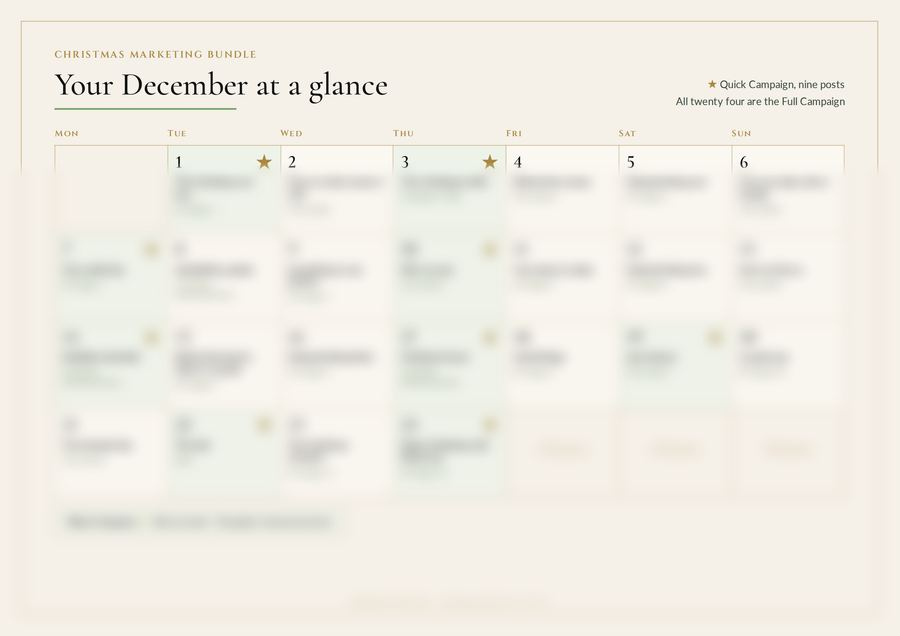
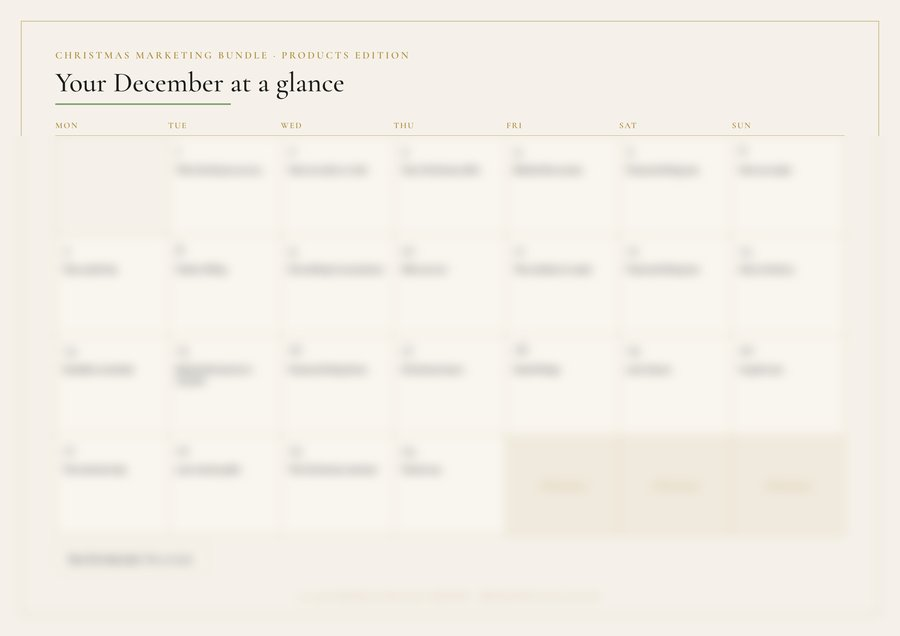
£79 price and new Offers page

diff --git a/christmas-marketing-bundle.html b/christmas-marketing-bundle.html
@@ -1183,9 +1183,9 @@ main.fern .advent-s h2{text-align:center;margin-bottom:6px}
     <div>
       <p class="label">Christmas Marketing Bundle</p>
       <h1>Your December posts, planned for&nbsp;you.</h1>
-      <p class="lede">A month of Christmas posts for your small business. The plan, the captions and the image prompts are ready for you to make your own, and from 1&nbsp;December an email arrives each morning to tell you what to post that day.</p>
+      <p class="lede">A month of Christmas posts for your small business. Twenty five posts are designed and written for you in Canva, ready to make your own, and from 1&nbsp;December an email arrives each morning to tell you what to post that day.</p>
       <div class="buy">
-      <p class="price">&pound;99<span>including VAT</span></p>
+      <p class="price">&pound;79<span>including VAT</span></p>
       <a class="btn" href="https://buy.stripe.com/5kQ3cx2S85Btbz48cp7Zu00">Buy the bundle</a>
       <p class="when">On sale until 30 November. Posting starts on 1 December.</p>
       <p class="when terms-line">For UK buyers. <a href="terms-of-sale.html">Terms of Sale</a> apply.</p>
@@ -1226,8 +1226,8 @@ main.fern .advent-s h2{text-align:center;margin-bottom:6px}
   <div class="narrow">
     <h2>How it works</h2>
     <ol class="howto">
-      <li><div><h3>In November, fill in your brand sheet</h3><p>A few lines about your business, your colours and what you are promoting this Christmas. Everything else follows from it.</p></div></li>
-      <li><div><h3>Make it yours</h3><p>Make your images with the prompts, fill in the brackets in the captions, and finish your Canva templates. Your own copy of the bundle is a document you can type straight into.</p></div></li>
+      <li><div><h3>In November, open your 25 posts</h3><p>Open the Canva template and click Use template. It becomes your own copy to change, and a short guide walks you through every step.</p></div></li>
+      <li><div><h3>Make them yours</h3><p>Change the colours, swap in your own photos and fill in the brackets in each caption. Then print your posters and counter card.</p></div></li>
       <li><div><h3>From 1 December, one email each morning</h3><p>A reminder of which picture and which caption to use that day. You post your own picture and your filled-in caption, or schedule them ahead.</p></div></li>
     </ol>
   </div>
@@ -1238,27 +1238,19 @@ main.fern .advent-s h2{text-align:center;margin-bottom:6px}
     <h2>What is inside</h2>
     <div class="inside">
       <div class="inside-list"><ul>
-        <li>A Campaign Check and brand sheet, so everything sounds like you</li>
-        <li>Twelve image prompts that keep your pictures looking like one set</li>
-        <li>Twenty five captions, written for you to fill in</li>
-        <li>A posting calendar from 1 to 24 December, and one for January</li>
-        <li>Briefs for the photos only you can take</li>
-        <li>Twenty five ready-to-edit Canva posts, one for every day, with that day's caption in each page's notes</li>
-        <li>Five more Canva templates: an announcement, an offer, a printable A6 offer for the counter, a reel cover, and A4 posters for your window or counter</li>
-        <li>A simple reel recipe</li>
-        <li>Three emails for your own customers</li>
-        <li>A reply pack of eight answers to the questions you are asked most</li>
-        <li>A guide to scheduling your posts</li>
-        <li>A guide to updating your Christmas hours on Google</li>
+        <li>Twenty five ready-to-edit Canva posts, one for every day from 1 to 24 December and one for January, each with its caption in the page notes</li>
+        <li>Five A4 posters for your window or counter, each with a space for a QR code</li>
+        <li>A printable A6 card for your gift vouchers or Christmas favourites</li>
+        <li>A short step-by-step guide, with Canva quick help and ten Christmas colour palettes</li>
+        <li>Optional prompts for making your own Christmas pictures with ChatGPT or Gemini</li>
         <li>A morning email every day from 1 to 24 December, and one in January</li>
         <li>A campaign planner and December calendar, to print and tick off by hand</li>
-        <li>Your own copy of the bundle to type into, as a Google Doc or a Word file, plus PDFs to read or print</li>
+        <li>Your own copy of the guide to type into, as a Google Doc or a Word file, plus PDFs to read or print</li>
         <li>Two editions, both included: a Products edition that follows a florist, and a Services edition that follows a grooming parlour. Use whichever fits your business</li>
-        <li>A short guide to using AI images sensibly and safely</li>
       </ul>
       <blockquote class="pull"><p>“A little less time planning your marketing. A little more time enjoying Christmas.”</p><cite>Llinos, Medraf Digital</cite></blockquote></div>
       <div class="prints">
-        <figure class="tilt-a"><img src="images/christmas/calendar.jpg" alt="The printable December calendar, showing all twenty four posts with the nine Quick Campaign posts starred"><figcaption>Your December at a glance, ready to print.</figcaption></figure>
+        <figure class="tilt-a"><img src="images/christmas/calendar.jpg" alt="The printable December calendar, showing the post for every day from 1 to 24 December"><figcaption>Your December at a glance, ready to print.</figcaption></figure>
         <figure class="tilt-b" style="max-width:62%;justify-self:end"><img src="images/christmas/planner.jpg" alt="The printable Christmas Campaign Planner checklist"><figcaption>The campaign planner, to tick off as you go.</figcaption></figure>
       </div>
     </div>
@@ -1276,40 +1268,35 @@ main.fern .advent-s h2{text-align:center;margin-bottom:6px}
         <li><button class="door" type="button" aria-expanded="false"><span class="sr-only">Door 3, a peek at an example</span><span class="door-in"><span class="door-front" aria-hidden="true"><b>3</b><i class="tap-hint">Tap</i></span><span class="door-back" aria-hidden="true"><img src="images/christmas/bh-day03.jpg" alt="Bees &amp; Honeysuckle, day three: hands tying a burgundy velvet ribbon around a winter bouquet" loading="lazy"></span></span></button></li>
         <li><button class="door" type="button" aria-expanded="false"><span class="sr-only">Door 4, a peek at an example</span><span class="door-in"><span class="door-front" aria-hidden="true"><b>4</b><i class="tap-hint">Tap</i></span><span class="door-back" aria-hidden="true"><img src="images/christmas/md-ex-day04.jpg" alt="Madox Grooming Parlour, day four: a Christmas pamper voucher in an envelope with holly and a velvet ribbon" loading="lazy"></span></span></button></li>
         <li><button class="door" type="button" aria-expanded="false"><span class="sr-only">Door 5</span><span class="door-in"><span class="door-front" aria-hidden="true"><b>5</b><i class="tap-hint">Tap</i></span><span class="door-back" aria-hidden="true"><span>Less time planning. More time enjoying.</span></span></span></button></li>
-        <li><button class="door" type="button" aria-expanded="false"><span class="sr-only">Door 6</span><span class="door-in"><span class="door-front" aria-hidden="true"><b>6</b><i class="tap-hint">Tap</i></span><span class="door-back" aria-hidden="true"><span class="in-bundle"><small>In the bundle</small>A Campaign Check and brand sheet</span></span></span></button></li>
+        <li><button class="door" type="button" aria-expanded="false"><span class="sr-only">Door 6</span><span class="door-in"><span class="door-front" aria-hidden="true"><b>6</b><i class="tap-hint">Tap</i></span><span class="door-back" aria-hidden="true"><span class="in-bundle"><small>In the bundle</small>Twenty five ready-to-edit Canva posts</span></span></span></button></li>
         <li><button class="door" type="button" aria-expanded="false"><span class="sr-only">Door 7</span><span class="door-in"><span class="door-front" aria-hidden="true"><b>7</b><i class="tap-hint">Tap</i></span><span class="door-back" aria-hidden="true"><span>No more overwhelm. Help is at hand.</span></span></span></button></li>
         <li><button class="door" type="button" aria-expanded="false"><span class="sr-only">Door 8</span><span class="door-in"><span class="door-front" aria-hidden="true"><b>8</b><i class="tap-hint">Tap</i></span><span class="door-back" aria-hidden="true"><span class="in-bundle"><small>In the bundle</small>A printable planner and December calendar</span></span></span></button></li>
         <li><button class="door" type="button" aria-expanded="false"><span class="sr-only">Door 9, a peek at an example</span><span class="door-in"><span class="door-front" aria-hidden="true"><b>9</b><i class="tap-hint">Tap</i></span><span class="door-back" aria-hidden="true"><img src="images/christmas/bh-day09.jpg" alt="Bees &amp; Honeysuckle, day nine: a small gift with a burgundy velvet bow beside a miniature wreath" loading="lazy"></span></span></button></li>
         <li><button class="door" type="button" aria-expanded="false"><span class="sr-only">Door 10, a peek at an example</span><span class="door-in"><span class="door-front" aria-hidden="true"><b>10</b><i class="tap-hint">Tap</i></span><span class="door-back" aria-hidden="true"><img src="images/christmas/bh-day10.jpg" alt="Bees &amp; Honeysuckle, day ten: a wreath on a burgundy front door, with a lit lantern on the snowy step" loading="lazy"></span></span></button></li>
-        <li><button class="door" type="button" aria-expanded="false"><span class="sr-only">Door 11</span><span class="door-in"><span class="door-front" aria-hidden="true"><b>11</b><i class="tap-hint">Tap</i></span><span class="door-back" aria-hidden="true"><span class="in-bundle"><small>In the bundle</small>Twelve image prompts</span></span></span></button></li>
-        <li><button class="door" type="button" aria-expanded="false"><span class="sr-only">Door 12</span><span class="door-in"><span class="door-front" aria-hidden="true"><b>12</b><i class="tap-hint">Tap</i></span><span class="door-back" aria-hidden="true"><span class="in-bundle"><small>In the bundle</small>Eight briefs for the photos only you can take</span></span></span></button></li>
-        <li><button class="door" type="button" aria-expanded="false"><span class="sr-only">Door 13</span><span class="door-in"><span class="door-front" aria-hidden="true"><b>13</b><i class="tap-hint">Tap</i></span><span class="door-back" aria-hidden="true"><span class="in-bundle"><small>In the bundle</small>Twenty five captions, ready to fill in</span></span></span></button></li>
+        <li><button class="door" type="button" aria-expanded="false"><span class="sr-only">Door 11</span><span class="door-in"><span class="door-front" aria-hidden="true"><b>11</b><i class="tap-hint">Tap</i></span><span class="door-back" aria-hidden="true"><span class="in-bundle"><small>In the bundle</small>A caption written for every post</span></span></span></button></li>
+        <li><button class="door" type="button" aria-expanded="false"><span class="sr-only">Door 12</span><span class="door-in"><span class="door-front" aria-hidden="true"><b>12</b><i class="tap-hint">Tap</i></span><span class="door-back" aria-hidden="true"><span class="in-bundle"><small>In the bundle</small>A4 posters for your window or counter</span></span></span></button></li>
+        <li><button class="door" type="button" aria-expanded="false"><span class="sr-only">Door 13</span><span class="door-in"><span class="door-front" aria-hidden="true"><b>13</b><i class="tap-hint">Tap</i></span><span class="door-back" aria-hidden="true"><span class="in-bundle"><small>In the bundle</small>A printable A6 card for the counter</span></span></span></button></li>
         <li><button class="door" type="button" aria-expanded="false"><span class="sr-only">Door 14</span><span class="door-in"><span class="door-front" aria-hidden="true"><b>14</b><i class="tap-hint">Tap</i></span><span class="door-back" aria-hidden="true"><span class="in-bundle"><small>In the bundle</small>A posting calendar for December and January</span></span></span></button></li>
-        <li><button class="door" type="button" aria-expanded="false"><span class="sr-only">Door 15</span><span class="door-in"><span class="door-front" aria-hidden="true"><b>15</b><i class="tap-hint">Tap</i></span><span class="door-back" aria-hidden="true"><span class="in-bundle"><small>In the bundle</small>Six Canva templates, including 25 ready-to-edit posts</span></span></span></button></li>
-        <li><button class="door" type="button" aria-expanded="false"><span class="sr-only">Door 16</span><span class="door-in"><span class="door-front" aria-hidden="true"><b>16</b><i class="tap-hint">Tap</i></span><span class="door-back" aria-hidden="true"><span class="in-bundle"><small>In the bundle</small>A simple reel recipe</span></span></span></button></li>
+        <li><button class="door" type="button" aria-expanded="false"><span class="sr-only">Door 15</span><span class="door-in"><span class="door-front" aria-hidden="true"><b>15</b><i class="tap-hint">Tap</i></span><span class="door-back" aria-hidden="true"><span class="in-bundle"><small>In the bundle</small>A QR code space on every poster</span></span></span></button></li>
+        <li><button class="door" type="button" aria-expanded="false"><span class="sr-only">Door 16</span><span class="door-in"><span class="door-front" aria-hidden="true"><b>16</b><i class="tap-hint">Tap</i></span><span class="door-back" aria-hidden="true"><span class="in-bundle"><small>In the bundle</small>Optional AI picture prompts</span></span></span></button></li>
         <li><button class="door" type="button" aria-expanded="false"><span class="sr-only">Door 17</span><span class="door-in"><span class="door-front" aria-hidden="true"><b>17</b><i class="tap-hint">Tap</i></span><span class="door-back" aria-hidden="true"><span class="in-bundle"><small>In the bundle</small>A morning email every day in December</span></span></span></button></li>
-        <li><button class="door" type="button" aria-expanded="false"><span class="sr-only">Door 18</span><span class="door-in"><span class="door-front" aria-hidden="true"><b>18</b><i class="tap-hint">Tap</i></span><span class="door-back" aria-hidden="true"><span class="in-bundle"><small>In the bundle</small>A reply pack of eight answers</span></span></span></button></li>
-        <li><button class="door" type="button" aria-expanded="false"><span class="sr-only">Door 19</span><span class="door-in"><span class="door-front" aria-hidden="true"><b>19</b><i class="tap-hint">Tap</i></span><span class="door-back" aria-hidden="true"><span class="in-bundle"><small>In the bundle</small>Three emails for your own customers</span></span></span></button></li>
+        <li><button class="door" type="button" aria-expanded="false"><span class="sr-only">Door 18</span><span class="door-in"><span class="door-front" aria-hidden="true"><b>18</b><i class="tap-hint">Tap</i></span><span class="door-back" aria-hidden="true"><span class="in-bundle"><small>In the bundle</small>A short step-by-step guide</span></span></span></button></li>
+        <li><button class="door" type="button" aria-expanded="false"><span class="sr-only">Door 19</span><span class="door-in"><span class="door-front" aria-hidden="true"><b>19</b><i class="tap-hint">Tap</i></span><span class="door-back" aria-hidden="true"><span class="in-bundle"><small>In the bundle</small>Canva quick help for every step</span></span></span></button></li>
         <li><button class="door" type="button" aria-expanded="false"><span class="sr-only">Door 20</span><span class="door-in"><span class="door-front" aria-hidden="true"><b>20</b><i class="tap-hint">Tap</i></span><span class="door-back" aria-hidden="true"><span class="in-bundle"><small>In the bundle</small>Scheduling your posts</span></span></span></button></li>
-        <li><button class="door" type="button" aria-expanded="false"><span class="sr-only">Door 21</span><span class="door-in"><span class="door-front" aria-hidden="true"><b>21</b><i class="tap-hint">Tap</i></span><span class="door-back" aria-hidden="true"><span class="in-bundle"><small>In the bundle</small>A guide to your Christmas hours on Google</span></span></span></button></li>
+        <li><button class="door" type="button" aria-expanded="false"><span class="sr-only">Door 21</span><span class="door-in"><span class="door-front" aria-hidden="true"><b>21</b><i class="tap-hint">Tap</i></span><span class="door-back" aria-hidden="true"><span class="in-bundle"><small>In the bundle</small>Ten Christmas colour palettes</span></span></span></button></li>
         <li><button class="door" type="button" aria-expanded="false"><span class="sr-only">Door 22</span><span class="door-in"><span class="door-front" aria-hidden="true"><b>22</b><i class="tap-hint">Tap</i></span><span class="door-back" aria-hidden="true"><span class="in-bundle"><small>In the bundle</small>Two editions, products and services</span></span></span></button></li>
-        <li><button class="door" type="button" aria-expanded="false"><span class="sr-only">Door 23</span><span class="door-in"><span class="door-front" aria-hidden="true"><b>23</b><i class="tap-hint">Tap</i></span><span class="door-back" aria-hidden="true"><span class="in-bundle"><small>In the bundle</small>A guide to using AI images sensibly</span></span></span></button></li>
+        <li><button class="door" type="button" aria-expanded="false"><span class="sr-only">Door 23</span><span class="door-in"><span class="door-front" aria-hidden="true"><b>23</b><i class="tap-hint">Tap</i></span><span class="door-back" aria-hidden="true"><span class="in-bundle"><small>In the bundle</small>Help by email if you get stuck</span></span></span></button></li>
         <li><button class="door door-24" type="button" aria-expanded="false"><span class="sr-only">Door 24, Christmas Eve</span><span class="door-in"><span class="door-front" aria-hidden="true"><i class="eve-star" aria-hidden="true">★</i><b>24</b><i class="tap-hint">Tap</i></span><span class="door-back" aria-hidden="true"><img src="images/christmas/eve-santa.jpg" alt="Father Christmas smiling beside his presents, with the words Merry Christmas, Nadolig Llawen"></span></span></button></li>
     </ol>
-    <p class="advent-note">The photographs show the kind of Christmas images you can create with the bundle’s prompts. The example images are also in your Canva templates, ready to swap for your own.</p>
+    <p class="advent-note">The photographs come from the bundle’s two example businesses. They are in your Canva templates, ready to swap for your own.</p>
     <p class="sr-only" aria-live="polite" id="advent-live"></p>
   </div>
 </section>
 
 <section>
   <div class="wrap">
-    <h2>Two ways to make Christmas marketing easier</h2>
-    <p style="max-width:680px">Whether you want to keep things simple or stay visible throughout December, both campaigns are included. Choose the pace that works for you.</p>
-    <div class="sizes">
-      <div class="size"><p class="n">9</p><h3>The Quick Campaign</h3><p class="tag">A little planning. A lovely Christmas presence.</p><p>Nine ready-to-personalise posts, plus one for January. Everything you need to stay connected with your audience over Christmas, without spending December wondering what to post next.</p></div>
-      <div class="size"><p class="n">24</p><h3>The Full Campaign</h3><p class="tag">A whole month of Christmas content, ready to make your own.</p><p>Twenty-four ready-to-personalise posts to keep your business visible throughout December. More opportunities to connect, share your offers and bring a little festive warmth to your marketing.</p></div>
-    </div>
-    <p style="margin-top:22px">Start small or go all in. The choice is yours, and both are included.</p>
+    <h2>A post for every day</h2>
+    <p style="max-width:680px">Twenty five posts, one for every day from 1 to 24 December and one for when you are back in January. Post all of them, or just the days that suit you. If you fall behind, keep going from today’s date. Nobody will notice a gap.</p>
   </div>
 </section>
 
@@ -1342,14 +1329,14 @@ main.fern .advent-s h2{text-align:center;margin-bottom:6px}
       <div>
         <h2>A few things to know before you buy</h2>
         <p><strong>It’s a DIY bundle, with the planning already done.</strong></p>
-        <p>You’ll receive ready-to-personalise captions, image prompts, templates, a posting calendar and step-by-step guidance.</p>
+        <p>You’ll receive 25 ready-to-personalise posts with their captions, posters, a counter card, a posting calendar and step-by-step guidance.</p>
         <p>You’ll need:</p>
         <ul class="ticks">
-          <li>A free or paid ChatGPT or Gemini account to create your images.</li>
           <li>A free or paid Canva account for the templates.</li>
+          <li>Photos of your own work, products or premises. A phone is fine.</li>
           <li>A little time before December to personalise and prepare your content.</li>
         </ul>
-        <p>Free AI image-generation limits vary between accounts and can change. You may need to create your images over several days. We recommend preparing your Christmas campaign in November so there’s plenty of time to create and personalise everything.</p>
+        <p>If you would also like to make AI pictures, a free ChatGPT or Gemini account is enough. Free limits vary, so make a few at a time. We recommend preparing your posts in November so there’s plenty of time.</p>
         <p>The bundle is available to buyers in the UK, under our <a href="terms-of-sale.html">Terms of Sale</a>.</p>
         <p>Nothing is personalised automatically, but you’ll have clear instructions and worked examples to guide you.</p>
       </div>
@@ -1361,11 +1348,11 @@ main.fern .advent-s h2{text-align:center;margin-bottom:6px}
 <section class="shade">
   <div class="narrow faq">
     <h2>Questions</h2>
-    <details><summary>Do I need to pay for any tools?</summary><p>No. It works on free or paid ChatGPT, Gemini and Canva accounts, so you can use whatever you already have.</p></details>
+    <details><summary>Do I need to pay for any tools?</summary><p>No. The templates work on a free Canva account. If you want to make AI pictures too, a free ChatGPT or Gemini account is enough.</p></details>
     <details><summary>Am I technical enough?</summary><p>If you can copy and paste, and send an email, you can do this. Every step is written out for you.</p></details>
-    <details><summary>How long will it take?</summary><p>That depends on you, and on whether you choose nine posts or twenty four. You can work through it in your own time during November.</p></details>
-    <details><summary>How does it arrive?</summary><p>By email, shortly after you buy, with a link to your files in Google Drive. Inside is your own copy of the bundle to type into, as a Google Doc (a free Google account lets you make your copy) or a Word file, plus PDFs to read or print and the Canva template links.</p></details>
-    <details><summary>Can I get a VAT invoice?</summary><p>Yes. Medraf Digital Limited is VAT registered and your receipt shows the VAT. If you need a full VAT invoice, email <a href="mailto:hello@medrafdigital.co.uk">hello@medrafdigital.co.uk</a>.</p></details>
+    <details><summary>How long will it take?</summary><p>That depends on you, and on how much you change. You can work through it in your own time during November.</p></details>
+    <details><summary>How does it arrive?</summary><p>By email, shortly after you buy, with a link to your files in Google Drive. Inside is your own copy of the guide to type into, as a Google Doc (a free Google account lets you make your copy) or a Word file, plus PDFs to read or print and the Canva template links.</p></details>
+    <details><summary>Can I get a VAT invoice?</summary><p>Yes. Medraf Digital Limited is VAT registered (VAT number 523 7259 88), and the &pound;79 includes VAT at 20%, which is &pound;13.17. If you need a VAT invoice, email <a href="mailto:hello@medrafdigital.co.uk">hello@medrafdigital.co.uk</a>.</p></details>
     <details><summary>Can I buy from outside the UK?</summary><p>Not at the moment. The bundle is available to buyers in the UK only, which keeps the price and VAT simple for everyone. We hope to welcome buyers from further afield in future.</p></details>
     <details><summary>When does it close?</summary><p>On 30 November, so that everyone starts posting together on 1 December.</p></details>
   </div>
@@ -1376,7 +1363,7 @@ main.fern .advent-s h2{text-align:center;margin-bottom:6px}
     <div class="sprig"><img src="images/christmas/holly.webp" alt="" width="560" height="370"></div>
     <h2>Your December, planned.</h2>
     <div class="buy">
-      <p class="price">&pound;99<span>including VAT</span></p>
+      <p class="price">&pound;79<span>including VAT</span></p>
       <a class="btn" href="https://buy.stripe.com/5kQ3cx2S85Btbz48cp7Zu00">Buy the bundle</a>
       <p class="when">On sale until 30 November. Posting starts on 1 December.</p>
       <p class="when terms-line">For UK buyers. <a href="terms-of-sale.html">Terms of Sale</a> apply.</p>

diff --git a/offers.html b/offers.html
@@ -4,10 +4,11 @@
 <meta charset="utf-8">
 <meta name="viewport" content="width=device-width, initial-scale=1.0">
 <title>Offers | Medraf Digital</title>
-<meta name="description" content="You don&#x27;t need AI everywhere. Medraf Digital starts with the problem, not the technology.">
+<meta name="description" content="Medraf Digital starts with the problem, not the technology.">
 <link rel="icon" href="images/favicon.png" sizes="any">
 <link rel="apple-touch-icon" href="images/apple-touch-icon.png">
 <link rel="stylesheet" href="fonts.css">
+<script>document.documentElement.classList.add('js-offers');</script>
 <style>
 /* ==========================================================================
    Medraf Digital
@@ -894,6 +895,27 @@ footer.site{ view-transition-name: site-footer; }
 .offers-end{height:54px}
 @media (max-width:720px){.offer .panel{padding:32px 24px 30px}}
 
+
+/* ---------- offers picker ---------- */
+.offers-hero{padding:64px 24px 28px}
+.offers-hero h1{font-size:clamp(34px,4.6vw,46px);margin-bottom:12px}
+.offer-picker{padding:8px 0 40px}
+.picker-wrap{max-width:var(--wide);margin:0 auto;padding:0 24px}
+.picker-hint{text-align:center;color:var(--cream-muted);font-size:16px;margin-bottom:18px}
+.picker{display:grid;gap:16px;grid-template-columns:repeat(auto-fit,minmax(200px,1fr))}
+.pick{display:flex;flex-direction:column;gap:8px;text-decoration:none;background:var(--panel);border:1px solid var(--divider);border-radius:8px;padding:24px 20px;transition:border-color .2s,transform .2s;min-width:0}
+.pick:hover,.pick.on{border-color:var(--gold-light);transform:translateY(-2px)}
+.pick-name{font-family:'Cormorant Garamond',serif;font-size:24px;line-height:1.15;color:var(--cream)}
+.pick-line{font-size:15px;line-height:1.5;color:var(--body-text);flex:1 1 auto}
+.pick-price{font-size:14px;color:var(--gold-light)}
+.offer{scroll-margin-top:110px}
+@media (max-width:600px){.offers-hero{padding:44px 20px 20px}.picker{gap:10px;grid-template-columns:1fr}.pick{padding:14px 18px;gap:2px;flex-direction:row;flex-wrap:wrap;align-items:baseline;justify-content:space-between}.pick-line{display:none}.pick-name{font-size:21px}.offer{scroll-margin-top:90px}}
+.js-offers .offer{display:none}
+.js-offers .offer.open{display:block}
+.back-all{font-size:15px;color:var(--cream-muted);text-decoration:none;order:9}
+.back-all:hover{color:var(--gold-light)}
+.offers-intro .panel p{font-size:17px}
+
 /* ---------- presence audit page ---------- */
 .cta-pair{display:flex;flex-wrap:wrap;gap:16px;justify-content:center;margin-top:40px}
 .three-areas{font-family:'Cinzel',serif;font-size:13px;letter-spacing:.14em;text-transform:uppercase;color:var(--green);margin:0 auto 22px !important}
@@ -933,7 +955,7 @@ h2.eyebrow{font-size:12px;line-height:1.6;margin-bottom:28px;color:var(--gold)}
 <meta property="og:site_name" content="Medraf Digital">
 <meta property="og:locale" content="en_GB">
 <meta property="og:title" content="Offers | Medraf Digital">
-<meta property="og:description" content="You don&#x27;t need AI everywhere. Medraf Digital starts with the problem, not the technology.">
+<meta property="og:description" content="Medraf Digital starts with the problem, not the technology.">
 <meta property="og:url" content="https://medrafdigital.co.uk/offers.html">
 <meta property="og:image" content="https://medrafdigital.co.uk/og-image.jpg">
 <meta property="og:image:width" content="1200">
@@ -941,7 +963,7 @@ h2.eyebrow{font-size:12px;line-height:1.6;margin-bottom:28px;color:var(--gold)}
 <meta property="og:image:alt" content="Medraf Digital. Every enquiry answered, day or night.">
 <meta name="twitter:card" content="summary_large_image">
 <meta name="twitter:title" content="Offers | Medraf Digital">
-<meta name="twitter:description" content="You don&#x27;t need AI everywhere. Medraf Digital starts with the problem, not the technology.">
+<meta name="twitter:description" content="Medraf Digital starts with the problem, not the technology.">
 <meta name="twitter:image" content="https://medrafdigital.co.uk/og-image.jpg">
 </head>
 <body>
@@ -966,24 +988,26 @@ h2.eyebrow{font-size:12px;line-height:1.6;margin-bottom:28px;color:var(--gold)}
     </nav>
   </div>
 </header>
-<section class="hero">
+<section class="hero offers-hero">
   <p class="eyebrow">Offers</p>
-  <h1>Start with what is <em>actually happening</em></h1>
-  <div class="rule"></div>
-  <p class="lede">You don't need AI everywhere.</p>
+  <h1>How can I help?</h1>
+  <p class="lede">Choose an offer to read more.</p>
 </section>
 
-<section class="tight">
-  <div class="narrow">
-    <div class="panel">
-      <p>You need to know where it could genuinely help, what needs fixing first, and what should stay human.</p>
-      <p>Medraf Digital starts with the problem, not the technology.</p>
-      <p>That might mean understanding how your business appears to people and AI, looking across your whole front office, building a better way to handle enquiries, helping you and your team use AI confidently in the work you already do, or giving your website a small tool that is useful on its own.</p>
+
+<section class="offer-picker" id="all-offers">
+  <div class="picker-wrap">
+    <div class="picker">
+      <a class="pick" href="#presence"><span class="pick-name">AI Presence Audit</span><span class="pick-line">How your business looks to people and to AI.</span><span class="pick-price">&pound;1,500 plus VAT</span></a>
+      <a class="pick" href="#front-office"><span class="pick-name">Front Office Audit</span><span class="pick-line">Your whole client journey, reviewed and mapped.</span><span class="pick-price">From &pound;2,500 plus VAT</span></a>
+      <a class="pick" href="#assistant"><span class="pick-name">AI Website Assistant</span><span class="pick-line">Answers for your visitors, even when you are closed.</span><span class="pick-price">From &pound;1,295 plus VAT</span></a>
+      <a class="pick" href="#training"><span class="pick-name">AI Training</span><span class="pick-line">Built around the work you actually do.</span><span class="pick-price">Price on application</span></a>
+      <a class="pick" href="#lead-magnets"><span class="pick-name">Interactive Lead Magnets</span><span class="pick-line">A useful tool for visitors before they get in touch.</span><span class="pick-price">From &pound;1,495 plus VAT</span></a>
     </div>
   </div>
 </section>
 
-<section class="offer">
+<section class="offer" id="presence">
   <div class="narrow">
     <article class="panel">
       <p class="eyebrow eyebrow-left">AI Presence Audit</p>
@@ -996,13 +1020,14 @@ h2.eyebrow{font-size:12px;line-height:1.6;margin-bottom:28px;color:var(--gold)}
         </ul>
         <p class="price-note">A founding rate for the first three clients.</p>
       <div class="links">
+        <a class="back-all" href="#all-offers">&larr; Back to all offers</a>
         <a class="link-on" href="presence-audit.html">Explore the AI Presence Audit</a>
         <p class="aside-link">Not ready for an audit? <a href="presence-check.html">Take the free AI Presence Check &rarr;</a></p>
       </div>
     </article>
   </div>
 </section>
-<section class="offer">
+<section class="offer" id="front-office">
   <div class="narrow">
     <article class="panel">
       <p class="eyebrow eyebrow-left">Front Office Audit</p>
@@ -1016,12 +1041,13 @@ h2.eyebrow{font-size:12px;line-height:1.6;margin-bottom:28px;color:var(--gold)}
           <li><span>Larger businesses</span><span class="amt">Quoted after the first chat</span></li>
         </ul>
       <div class="links">
+        <a class="back-all" href="#all-offers">&larr; Back to all offers</a>
         <a class="link-on" href="audit.html">Explore the Front Office Audit</a>
       </div>
     </article>
   </div>
 </section>
-<section class="offer">
+<section class="offer" id="assistant">
   <div class="narrow">
     <article class="panel">
       <p class="eyebrow eyebrow-left">AI Website Assistant</p>
@@ -1038,13 +1064,14 @@ h2.eyebrow{font-size:12px;line-height:1.6;margin-bottom:28px;color:var(--gold)}
         </ul>
         <p class="price-note">Live and Ready for Christmas: book by Monday 30 November for a go-live before Christmas.</p>
       <div class="links">
+        <a class="back-all" href="#all-offers">&larr; Back to all offers</a>
         <a class="link-on" href="lead-capture.html">Explore the AI Website Assistant</a>
         <p class="aside-link">Not ready to explore a system? <a href="calculator.html">Try the free Lost Enquiry Calculator &rarr;</a></p>
       </div>
     </article>
   </div>
 </section>
-<section class="offer">
+<section class="offer" id="training">
   <div class="narrow">
     <article class="panel">
       <p class="eyebrow eyebrow-left">AI Training</p>
@@ -1057,6 +1084,7 @@ h2.eyebrow{font-size:12px;line-height:1.6;margin-bottom:28px;color:var(--gold)}
           <li><span>AI Training</span><span class="amt">Price on application</span></li>
         </ul>
       <div class="links">
+        <a class="back-all" href="#all-offers">&larr; Back to all offers</a>
         <a class="link-on" href="training.html">Explore AI Training</a>
         <p class="aside-link">Not sure where you are starting from? <a href="confidence-check.html">Take the free AI Confidence Check &rarr;</a></p>
       </div>
@@ -1077,6 +1105,7 @@ h2.eyebrow{font-size:12px;line-height:1.6;margin-bottom:28px;color:var(--gold)}
           <li><span>Tier 3, Lead Generation Journey</span><span class="amt">From &pound;3,995 plus VAT</span></li>
         </ul>
       <div class="links">
+        <a class="back-all" href="#all-offers">&larr; Back to all offers</a>
         <a class="link-on" href="book.html">Talk about a lead magnet</a>
         <p class="aside-link">Try them: <a href="confidence-check.html">AI Confidence Check</a> &middot; <a href="presence-check.html">AI Presence Check</a> &middot; <a href="calculator.html">Lost Enquiry Calculator</a></p>
       </div>
@@ -1084,6 +1113,17 @@ h2.eyebrow{font-size:12px;line-height:1.6;margin-bottom:28px;color:var(--gold)}
   </div>
 </section>
 <div class="offers-end"></div>
+
+<section class="tight offers-intro">
+  <div class="narrow">
+    <div class="panel">
+      <p>You need to know where it could genuinely help, what needs fixing first, and what should stay human.</p>
+      <p>Medraf Digital starts with the problem, not the technology.</p>
+      <p>That might mean understanding how your business appears to people and AI, looking across your whole front office, building a better way to handle enquiries, helping you and your team use AI confidently in the work you already do, or giving your website a small tool that is useful on its own.</p>
+    </div>
+  </div>
+</section>
+
 
 <footer class="site">
   <div class="foot-grid">
@@ -1139,6 +1179,27 @@ h2.eyebrow{font-size:12px;line-height:1.6;margin-bottom:28px;color:var(--gold)}
   });
 })();
 
+
+/* Offers picker: show one offer at a time. Without script, every offer shows. */
+(function () {
+  document.documentElement.classList.add('js-offers');
+  var ids = ['presence','front-office','assistant','training','lead-magnets'];
+  function show(id, jump) {
+    ids.forEach(function (x) {
+      var sec = document.getElementById(x);
+      var pick = document.querySelector('.pick[href="#' + x + '"]');
+      if (sec) sec.classList.toggle('open', x === id);
+      if (pick) pick.classList.toggle('on', x === id);
+    });
+    if (jump && id) { var t = document.getElementById(id); if (t) t.scrollIntoView({behavior:'smooth', block:'start'}); }
+  }
+  function fromHash(jump) {
+    var h = location.hash.replace('#','');
+    if (ids.indexOf(h) > -1) show(h, jump); else show(null, false);
+  }
+  window.addEventListener('hashchange', function(){ fromHash(true); });
+  fromHash(true);
+})();
 </script>
 </body>
 </html>

diff --git a/terms-of-sale.html b/terms-of-sale.html
@@ -979,7 +979,7 @@ footer.site{ view-transition-name: site-footer; }
     <p>The example businesses and images in our products, such as Bees &amp; Honeysuckle and Madox Grooming Parlour, are invented. They show the kind of content you can create. They are not finished images for you to use as your own.</p>
 
     <h2>Price and payment</h2>
-    <p>The price is shown on the product page and includes VAT. You pay the full price, including VAT, at checkout. Payments are taken securely by our payment provider, Stripe, and your receipt shows the VAT.</p>
+    <p>The price is shown on the product page and includes VAT. You pay the full price, including VAT, at checkout. Payments are taken securely by our payment provider, Stripe. If you need a VAT invoice, email us and we will send one.</p>
 
     <h2>Delivery</h2>
     <p>Your product is delivered by email, shortly after you buy, to the email address you give at checkout. The email contains links to your files. If it has not arrived within 24 hours, please check your spam or junk folder, then email us and we will send it again.</p>

diff --git a/digital-products.html b/digital-products.html
@@ -1192,7 +1192,7 @@ main.fern .advent-s h2{text-align:center;margin-bottom:6px}
       <div class="body">
         <h3>Christmas Marketing Bundle</h3>
         <p>A month of Christmas posts for your small business, planned for you, with an email each morning in December telling you what to post.</p>
-        <p class="price">&pound;99<small>including VAT. On sale until 30 November.</small></p>
+        <p class="price">&pound;79<small>including VAT. On sale until 30 November.</small></p>
         <a class="btn" href="christmas-marketing-bundle.html">See the bundle</a>
       </div>
     </article>
